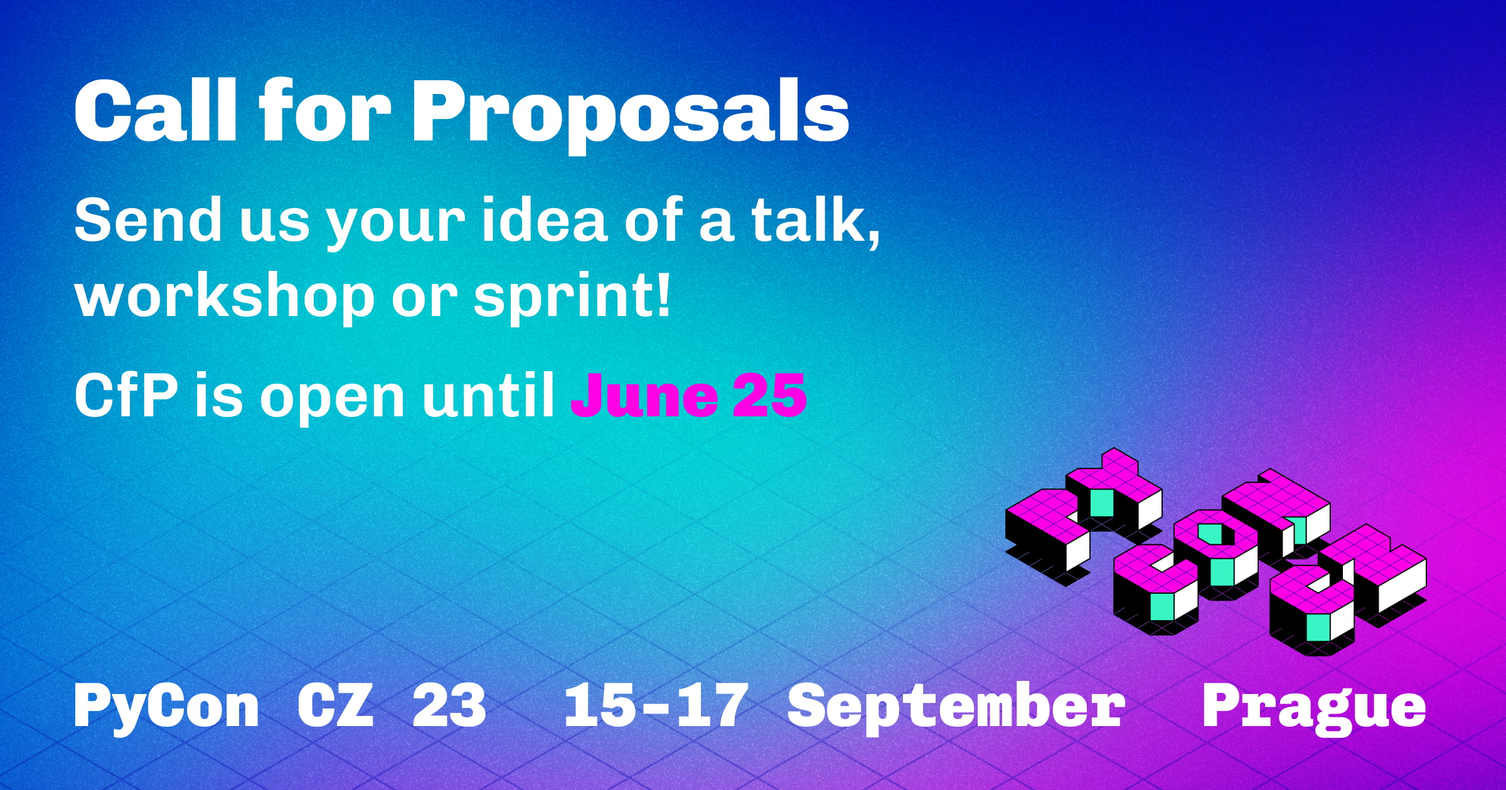
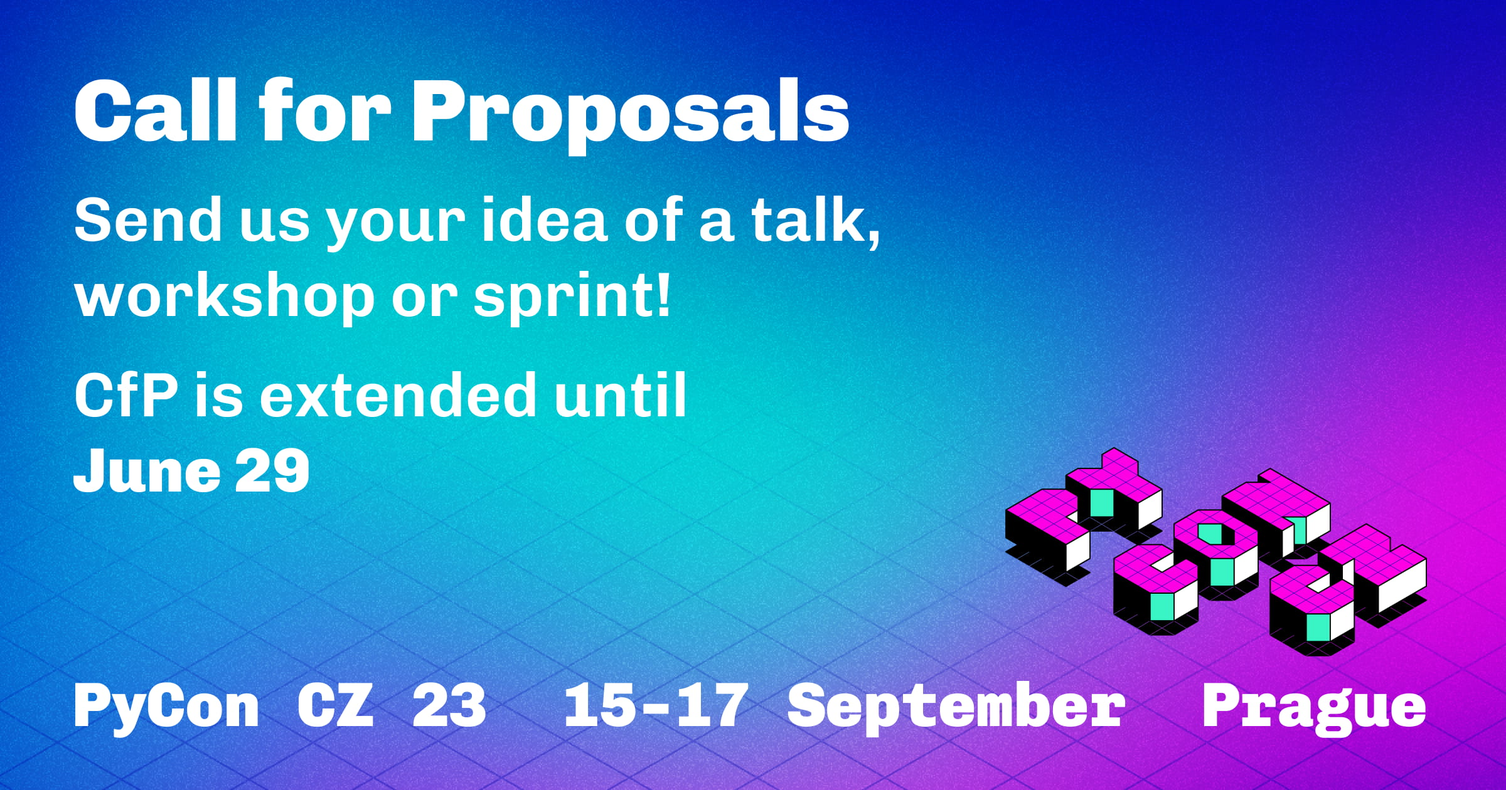
content: CfP extended

Changed region(s): [[0.0312, 0.4643, 0.5625, 0.619]]

diff --git a/templates/pages/cfp.html b/templates/pages/cfp.html
@@ -15,7 +15,7 @@
         <div class="col-md-9 col-lg-7 col-xl-6">
             <p class="lead">We would like to invite you to submit proposals for talks, workshops, and sprint ideas. Let’s make this a remarkable event together!</p>
             <p><a href="https://pretalx.com/pycon-cz-23" class="btn btn-primary btn-lg">Send us your ideas!</a></p>
-            <p>The last chance will be on <b>25 June 2023</b>.</p>
+            <p>The last chance will be on <b>29 June 2023</b>.</p>
             <p>Our primary focus is on Python, software development, data science, and related topics. In addition, we welcome any valuable ideas connected to the Python ecosystem, work culture, and the wider tech community.</p>
 
             <h2>Format</h2>
@@ -179,7 +179,7 @@
 
             <div class="mb-3 mt-3">
                 <h2 class="mt-2">Let us know before it’s too late!</h2>
-                <p class="lead">Yes, there is a deadline: <strong>25 June 2023</strong>. Make sure you do not miss it. We’d miss you.</p>
+                <p class="lead">Yes, there is a deadline: <strong>29 June 2023</strong>. Make sure you do not miss it. We’d miss you.</p>
                 <p>Not ready or sure yet? Feel free to ask for advice at <a class="text-dark fw-bold" href="mailto:info@pycon.cz">info@pycon.cz</a>.</p>
                 <p class="mt-5"><a href="https://pretalx.com/pycon-cz-23" class="btn btn-primary btn-lg">Send us your idea</a></p>
             </div>

diff --git a/templates/pages/homepage.html b/templates/pages/homepage.html
@@ -5,7 +5,7 @@
 
 
 {% block header_action %}
-    <a href="{% url 'cfp' %}" class="btn btn-primary btn-lg">Call for proposals is open!</a>
+    <a href="{% url 'cfp' %}" class="btn btn-primary btn-lg">Call for proposals is extended until 29 June!</a>
 {% endblock %}
 
 
